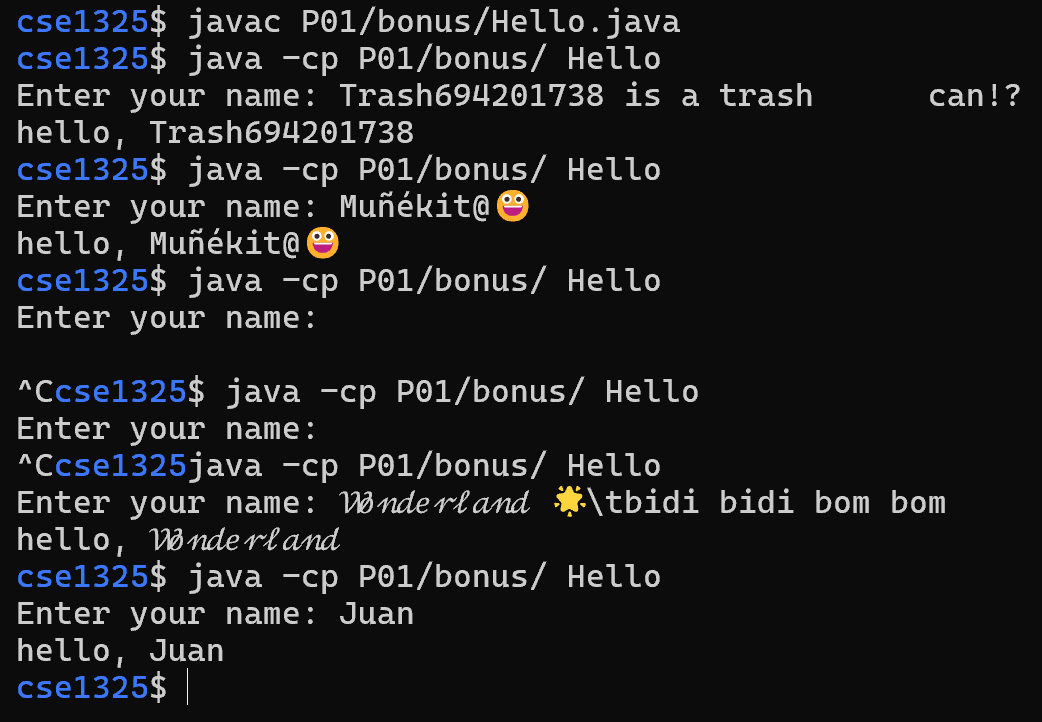
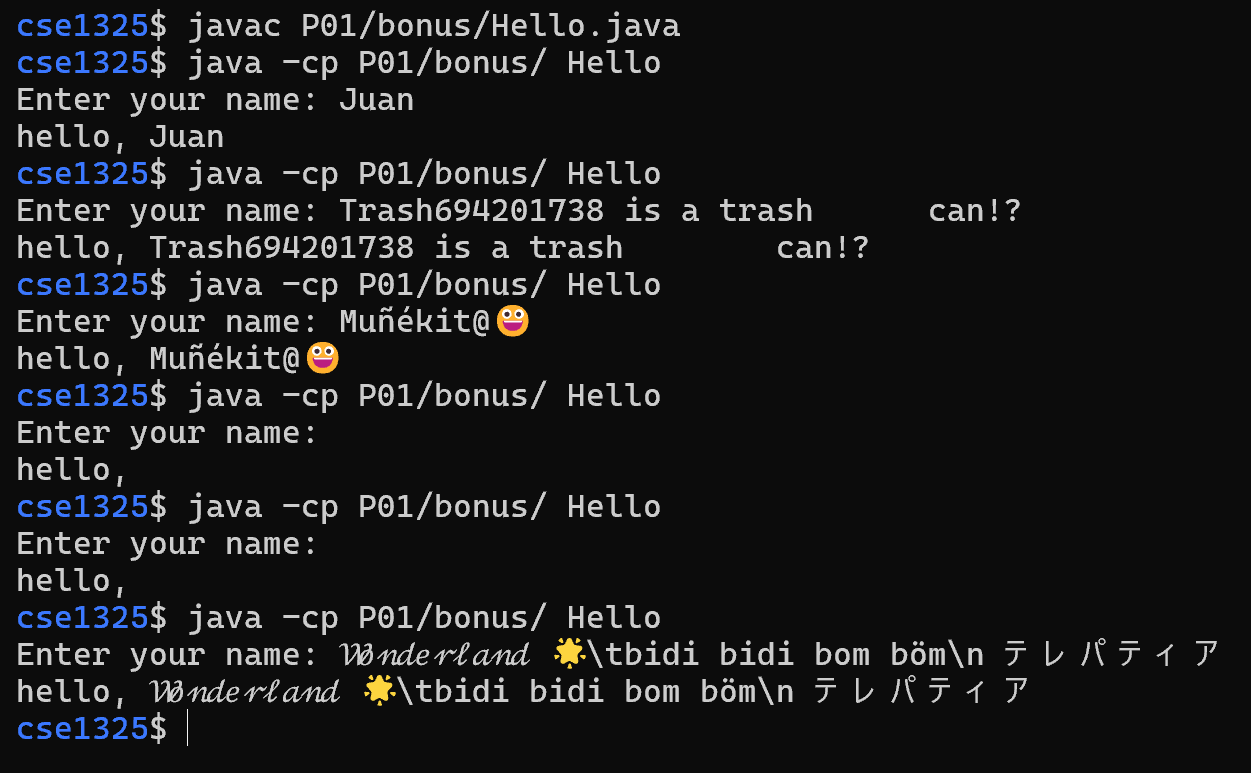
Fixed bonus code not working correctly with spaces and updated Hello.png

Changed region(s): [[0.0, 0.0, 0.9827, 0.9751], [0.737, 0.2438, 0.8292, 0.3047], [0.8906, 0.1219, 0.9827, 0.1524]]

diff --git a/P01/bonus/Hello.java b/P01/bonus/Hello.java
@@ -6,7 +6,7 @@ public class Hello
 	{
 		Scanner in = new Scanner(System.in);	
 		System.out.print("Enter your name: ");
-		String name = in.next();
+		String name = in.nextLine();
 		System.out.println("hello, " + name);
 	}
 }
